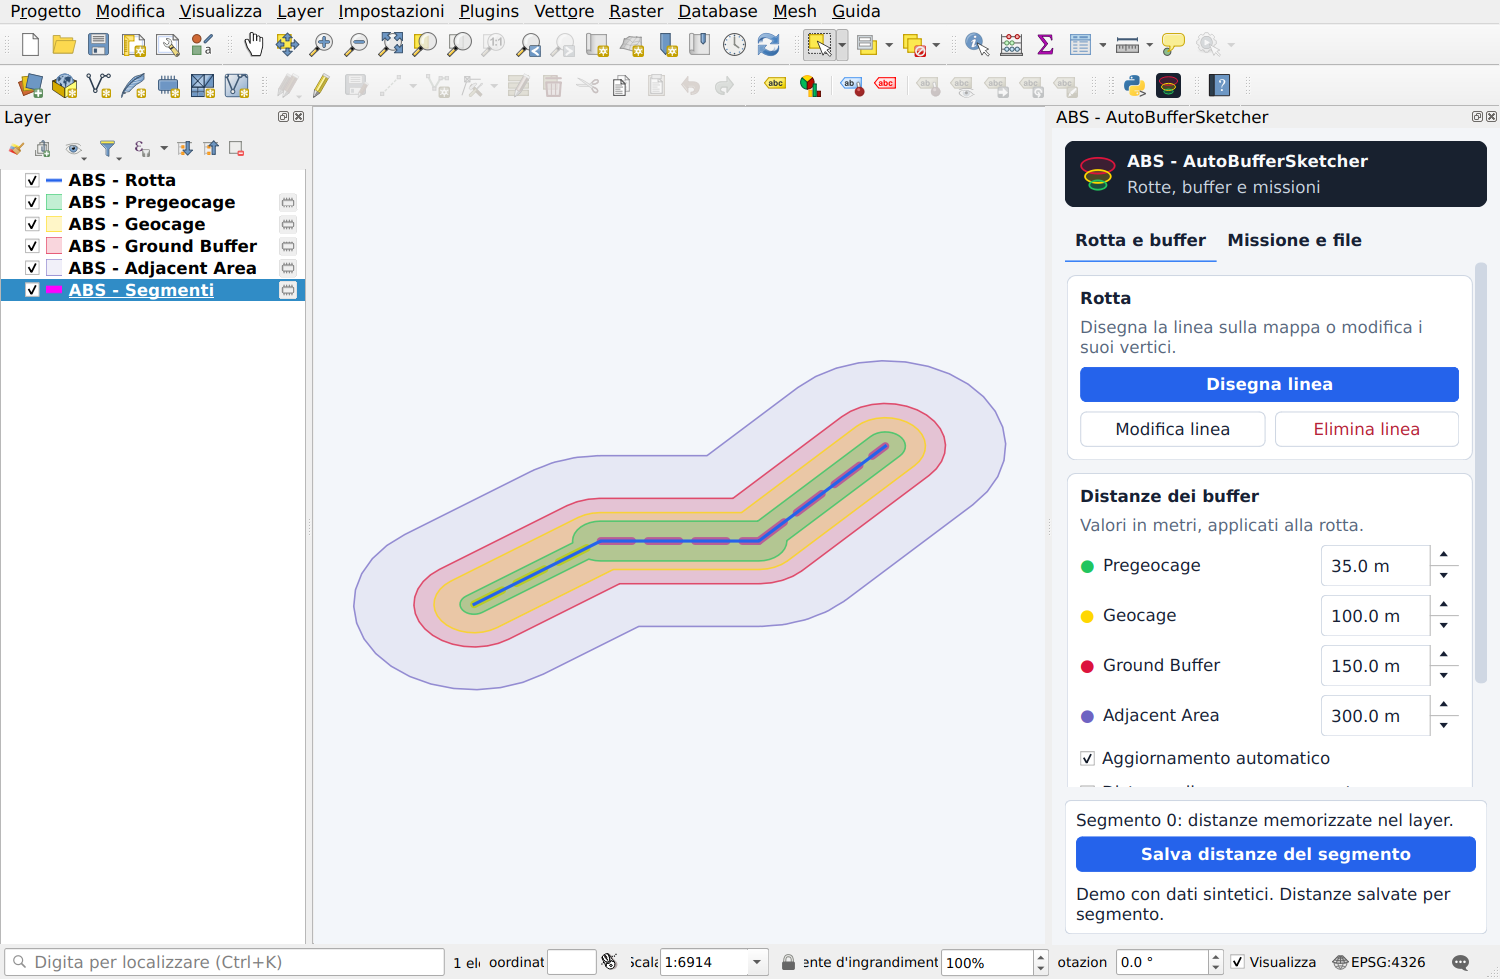
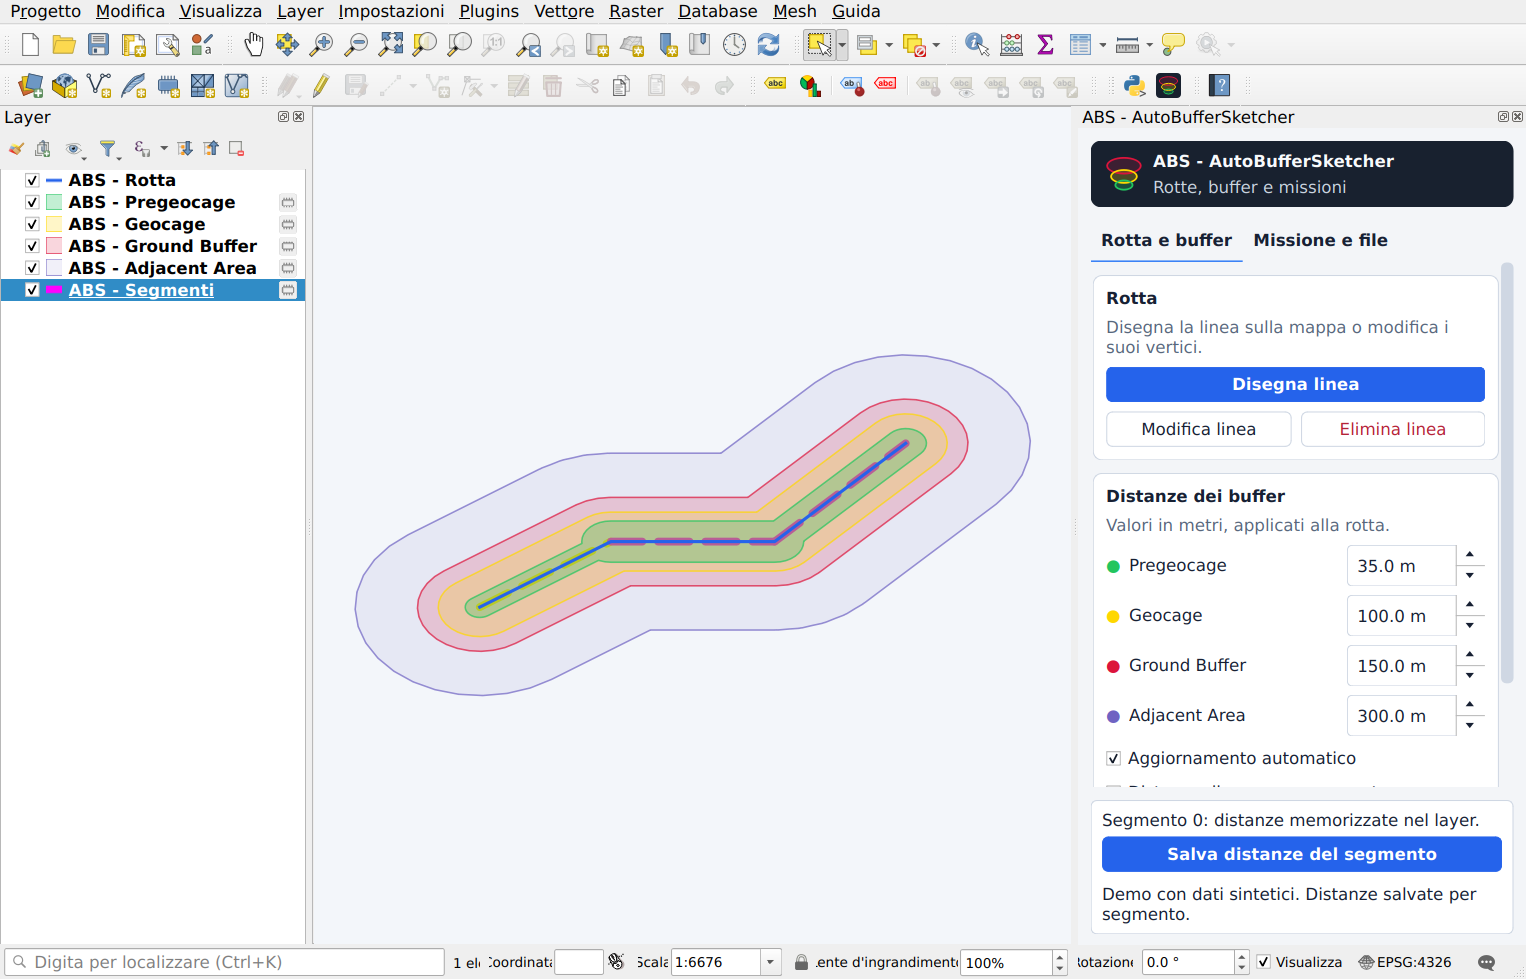
docs: present ABS in Italian and English and clarify RigiCloud export
Split the repository presentation into equivalent Italian and English sections in the author voice. Describe only confirmed personal context and actual capabilities; keep the Italian-only interface status explicit while localization is planned.

Label the existing .plan action and file dialog specifically for RigiCloud and document the distinction between that mission profile and GIS exchange formats. Do not change the exporter payload or invent a generic mission schema. Refresh synthetic QGIS screenshots.

Prepare development version 0.2.1 without altering published v0.2.0. Make the packaging path-validation fixture independent of the current version.

Validation: 37 functional regressions, seven Qt checks, six packaging tests and exporter smoke tests pass locally. Documentation links checked and screenshots regenerated in an isolated QGIS profile. UI localization and additional mission formats remain separate future work.

diff --git a/tests/test_package.py b/tests/test_package.py
@@ -50,7 +50,8 @@ class PackageTests(unittest.TestCase):
         (self.root/'auto_buffer_sketcher/resources/escape.svg').symlink_to(self.root/'LICENSE')
         with self.assertRaisesRegex(ValueError,'Symlinks'):build_plugin(self.root,Path(self.temp.name)/'out',True)
     def test_version_cannot_escape_output_path(self):
-        path=self.root/'auto_buffer_sketcher/metadata.txt';path.write_text(path.read_text().replace('version=0.2.0','version=../../escape'))
+        path=self.root/'auto_buffer_sketcher/metadata.txt'
+        path.write_text('\n'.join('version=../../escape' if line.startswith('version=') else line for line in path.read_text().splitlines())+'\n')
         with self.assertRaisesRegex(ValueError,'Version'):build_plugin(self.root,Path(self.temp.name)/'out',True)
 
 if __name__=='__main__':unittest.main(verbosity=2)

diff --git a/auto_buffer_sketcher/dock_panel.py b/auto_buffer_sketcher/dock_panel.py
@@ -178,7 +178,7 @@ class BufferDockPanel(QDockWidget):
         mission.addLayout(grid)
         exports = self._card(files, "Esporta", "Scegli il formato per il passaggio successivo.")
         for attr, text, signal, description in (
-            ("btn_export_plan", "Esporta .plan", self.export_plan_requested, "Piano per RigiCloud"),
+            ("btn_export_plan", "Esporta .plan per RigiCloud", self.export_plan_requested, "Profilo missione dedicato a RigiCloud"),
             ("btn_export_geojson", "Esporta GeoJSON", self.export_geojson_requested, "Dati geografici in formato JSON"),
             ("btn_export", "Esporta GeoPackage", self.export_requested, "Rotta e buffer in un file .gpkg"),
         ):

diff --git a/auto_buffer_sketcher/plugin.py b/auto_buffer_sketcher/plugin.py
@@ -764,9 +764,9 @@ class AutoBufferPlugin:
 
         file_path, _ = QFileDialog.getSaveFileName(
             self.dock_panel,
-            "Esporta Piano di Volo (.plan)",
+            "Esporta piano per RigiCloud (.plan)",
             os.path.expanduser("~/abs_mission.plan"),
-            "Rigicloud Plan (*.plan)",
+            "RigiCloud Plan (*.plan)",
         )
 
         if not file_path:

diff --git a/README.md b/README.md
@@ -2,80 +2,138 @@
 
 <img src="docs/assets/logo-horizontal.svg" alt="ABS - AutoBufferSketcher" width="960" height="160">
 
-**Disegna una rotta. Definisci le distanze. Aggiorna i buffer mentre lavori in QGIS.**
+[Italiano](#italiano) · [English](#english)
 
-ABS è un progetto personale di **Francesco Rosano** per disegnare e modificare rotte, generare quattro fasce di buffer e gestire distanze uniformi oppure diverse per ogni segmento.
+![ABS in QGIS: rotta e quattro buffer su dati sintetici / route and four buffers using synthetic data](docs/assets/overview.png)
 
-*QGIS plugin for interactive route sketching, four metric buffer zones, per-segment distances, GeoPackage persistence, GeoJSON and `.plan` export.*
+## Italiano
 
-**Stato:** versione di sviluppo 0.2.0, sperimentale. Il plugin non è ancora pubblicato nel catalogo ufficiale QGIS. L’interfaccia è in italiano.
+### Il progetto
 
-![Rotta e quattro buffer in QGIS, su dati sintetici](docs/assets/overview.png)
+Sto sviluppando ABS come progetto personale per disegnare e modificare rotte in QGIS e gestire quattro fasce di buffer, con distanze uniformi oppure diverse per ogni segmento. Ho portato questo progetto anche nella mia tesina di fine corso.
 
-Tutte le immagini usano la [rotta sintetica inclusa](examples/README.md), senza dati operativi o servizi cartografici esterni.
+Con ABS voglio raccogliere nello stesso pannello il lavoro sulla rotta, il calcolo dei buffer e la preparazione dei dati da esportare. Per lo scambio GIS metto a disposizione GeoPackage e GeoJSON; per il flusso missione ho un’esportazione `.plan` pensata appositamente per **RigiCloud**.
+
+**Stato:** ho pubblicato la versione sperimentale [0.2.0](https://github.com/OnlyPio59/ABS_AutoBufferSketcher/releases/tag/v0.2.0); nel ramo di sviluppo preparo la 0.2.1. Il plugin non è ancora nel catalogo ufficiale QGIS. L’interfaccia attuale è in italiano: ho pianificato la traduzione inglese e la predisposizione per altre lingue.
 
 [Guida completa](docs/USER_GUIDE.md) · [Demo riproducibile](examples/README.md) · [Changelog](CHANGELOG.md) · [Contribuire](CONTRIBUTING.md)
 
-## Cosa puoi fare
+### Cosa posso fare con ABS
 
-- Disegnare rotte sulla mappa, modificare i vertici ed eliminare le linee con conferma.
-- Generare **Pregeocage**, **Geocage**, **Ground Buffer** e **Adjacent Area**, con distanze in metri e aggiornamento automatico o manuale.
-- Salvare quattro distanze indipendenti per ciascun segmento; conservarle durante divisioni compatibili e gestire esplicitamente le fusioni con valori diversi.
-- Salvare rotta, buffer e segmenti in GeoPackage e ripristinare modalità e parametri dal progetto QGIS.
-- Esportare GeoJSON in WGS84 e piani `.plan` per il flusso RigiCloud, entro i limiti documentati.
+- Disegnare rotte sulla mappa, modificare i vertici ed eliminare linee con conferma.
+- Generare **Pregeocage**, **Geocage**, **Ground Buffer** e **Adjacent Area** in metri, con aggiornamento automatico o manuale.
+- Salvare distanze indipendenti per ciascun segmento e ritrovarle passando da un segmento all’altro.
+- Rendere persistenti i layer e conservare modalità e parametri nel progetto QGIS.
+- Esportare geometrie GIS oppure un profilo missione `.plan` dedicato a RigiCloud, entro i limiti documentati.
 
-## Installazione
+### Installazione e primo utilizzo
 
-Il plugin usa Python, Qt e PyQGIS forniti con QGIS; non richiede pacchetti Python esterni.
+Uso Python, Qt e PyQGIS già forniti con QGIS, senza pacchetti Python esterni. Dichiaro QGIS **3.34–3.99**; le verifiche disponibili riguardano **3.34.4 e 3.44.15 su Linux**. Non ho ancora convalidato Windows, macOS o QGIS 4.
 
-**Da ZIP:** quando hai un pacchetto del plugin, apri **Plugin → Gestisci e installa plugin → Installa da ZIP**, selezionalo e abilita ABS. Dopo un aggiornamento, riavvia QGIS per ricaricare il codice Python.
+1. Scarica lo ZIP dagli asset della [release](https://github.com/OnlyPio59/ABS_AutoBufferSketcher/releases/tag/v0.2.0).
+2. In QGIS apri **Plugin → Gestisci e installa plugin → Installa da ZIP**. Dopo un aggiornamento, riavvia QGIS.
+3. Apri ABS dalla toolbar. In **Rotta e buffer** imposta le distanze e premi **Disegna linea**: clic sinistro per i vertici, clic destro per completare, Backspace per rimuovere l’ultimo vertice, Esc per annullare.
+4. Usa **Modifica linea** e **Salva modifiche** per intervenire sui vertici. Puoi disattivare l’aggiornamento automatico e usare **Ricalcola buffer**.
+5. Per valori locali, attiva **Distanze diverse per segmento**, seleziona un segmento, modifica i campi e premi **Salva distanze del segmento** prima di selezionare il successivo.
 
-**Dal sorgente:** apri **Impostazioni → Profili utente → Apri cartella del profilo attivo** e copia `auto_buffer_sketcher` dentro `python/plugins`. Riavvia QGIS e abilita **ABS - AutoBufferSketcher** dal gestore plugin. Per le versioni di sviluppo usa un profilo separato.
+Per lavorare dal sorgente, copia `auto_buffer_sketcher` in `python/plugins` del profilo QGIS e riavvia l’applicazione. Per lo sviluppo consiglio un profilo separato.
 
-Il minimo dichiarato è QGIS 3.34; le verifiche disponibili riguardano **QGIS 3.34.4 e 3.44.15 su Linux**. La versione è destinata a QGIS 3.x; QGIS 4, Windows e macOS non sono ancora convalidati.
+### Salvare ed esportare
 
-## Primo utilizzo
-
-1. Apri ABS dalla toolbar. Nella scheda **Rotta e buffer**, imposta le quattro distanze.
-2. Premi **Disegna linea**: clic sinistro per aggiungere vertici, clic destro per completare, Backspace per rimuovere l’ultimo vertice, Esc per annullare.
-3. Usa **Modifica linea** e poi **Salva modifiche** per intervenire sui vertici. L’aggiornamento automatico è inizialmente attivo; puoi usare anche **Ricalcola buffer**.
-4. Per distanze locali, attiva **Distanze diverse per segmento**, seleziona un segmento sulla mappa, imposta i valori e premi **Salva distanze del segmento**. Poi passa al successivo.
-5. Nella scheda **Missione e file**, scegli il formato di esportazione o rendi persistenti i layer. Salva anche il progetto QGIS per conservarne impostazioni e riferimenti.
-
-![Distanze indipendenti e salvataggio del segmento selezionato](docs/assets/segments.png)
-
-## Salvataggi ed esportazioni
-
-| Azione | Risultato |
+| Azione | Cosa ottengo |
 | --- | --- |
-| Salva distanze del segmento | Memorizza i quattro valori soltanto nel segmento selezionato del layer corrente. |
-| Applica a tutti i segmenti | Sostituisce le distanze di tutti i segmenti con i valori correnti. |
-| Esporta GeoPackage | Esporta rotta e quattro buffer. Non include il layer dei segmenti. |
-| Rendi layer persistenti | Salva anche i segmenti e sostituisce nel progetto i layer temporanei con quelli su disco. |
-| Esporta GeoJSON | Esporta rotte, waypoint e buffer in WGS84, comprese geometrie multipart e anelli interni. |
-| Esporta .plan | Esporta una rotta rappresentabile con i suoi buffer e i parametri di missione. |
+| Salva distanze del segmento | I quattro valori memorizzati soltanto nel segmento selezionato del layer corrente. |
+| Applica a tutti i segmenti | Gli stessi valori correnti su tutti i segmenti. |
+| Esporta GeoPackage | Una copia di rotta e quattro buffer, senza il layer segmenti. |
+| Rendi layer persistenti | Rotta, buffer e segmenti su disco; salvo poi anche il progetto QGIS. |
+| Esporta GeoJSON | Rotte, waypoint e buffer in WGS84, comprese parti separate e anelli interni. |
+| Esporta .plan per RigiCloud | Una rotta e i buffer associati nel profilo missione dedicato implementato da ABS. |
 
-La [guida d’uso](docs/USER_GUIDE.md) spiega la differenza fra salvare valori, salvare layer e salvare il progetto.
+Il pulsante del segmento salva nel layer corrente: per conservare layer temporanei dopo la chiusura uso **Rendi layer persistenti** e salvo il progetto QGIS.
 
-## Limiti e compatibilità
+### Perché specifico RigiCloud
 
-- Calcolo metrico regionale in un CRS UTM locale: estensioni oltre 6° in longitudine o latitudine, attraversamenti dell’antimeridiano e latitudini fuori da 80° S–84° N sono segnalati come non supportati.
-- `.plan` richiede una rotta continua con almeno tre vertici. Parti separate, buchi e buffer non rappresentabili vengono segnalati; GeoJSON conserva invece le geometrie complete.
-- **La compatibilità completa con RigiCloud 1.19.9 resta in validazione**, comprese quote, profilo e parametri. Un file JSON leggibile non dimostra l’accettazione della missione nel sistema target.
-- I valori iniziali sono parametri del software, non una verifica dell’adeguatezza di una missione.
+Il `.plan` che esporto contiene una missione VTOL, un profilo e parametri di sicurezza e i geofence. Lo considero un’esportazione dedicata al flusso **RigiCloud**, non un piano universale compatibile con qualunque applicazione. La compatibilità completa con **RigiCloud 1.19.9**, incluse quote, profilo e parametri, è ancora in validazione.
 
-## Qualità e sviluppo
+Non ho ancora implementato un secondo esportatore missione generico. Per aggiungerlo dovrò prima scegliere l’applicazione destinataria e il suo schema: la stessa estensione `.plan` è usata anche da formati differenti. GeoJSON e GeoPackage rimangono le mie opzioni di scambio delle geometrie GIS.
 
-La suite contiene **37 regressioni del plugin e 7 prove dell’interfaccia**, oltre allo smoke test degli esportatori. GitHub Actions le esegue con il Python di sistema e Qt offscreen. Le verifiche offscreen non coprono ogni interazione desktop o piattaforma.
+### Limiti e verifiche
 
-Il codice è in `auto_buffer_sketcher/`; i test sintetici sono in `tests/`. Per riprodurli o proporre una modifica, vedi [CONTRIBUTING.md](CONTRIBUTING.md). Per un problema, apri una segnalazione con il modello dedicato nella sezione Issues della repository, indicando versioni, CRS e passaggi riproducibili.
+Calcolo i buffer in un CRS UTM locale: estensioni oltre 6° in longitudine o latitudine, attraversamenti dell’antimeridiano e latitudini fuori da 80° S–84° N sono segnalati come non supportati. Il profilo `.plan` attuale richiede una rotta continua con almeno tre vertici e rifiuta geometrie non rappresentabili, come parti separate o buchi. I valori iniziali sono parametri del software, non una validazione di una missione.
 
-## Autore e licenza
+Mantengo **37 regressioni funzionali, 7 prove dell’interfaccia e 6 prove di confezionamento**, oltre allo smoke test degli esportatori. Le eseguo anche su GitHub Actions. Ho verificato l’installazione ZIP in un profilo QGIS isolato; le prove offscreen non coprono ogni interazione desktop o piattaforma.
 
-**Francesco Rosano** — progetto personale. Contatto tramite le Issues della repository.
+Per le immagini e la [demo](examples/README.md) uso soltanto dati sintetici. La guida dettagliata è attualmente in italiano. Per una segnalazione o una proposta, usa i modelli nella sezione Issues.
 
-Distribuito con licenza **GNU GPL versione 3 (GPL-3.0-only)**. Sono consentiti anche uso e distribuzione commerciali, nel rispetto della licenza. Vedi [LICENSE](LICENSE) e [NOTICE](NOTICE). La pubblicazione nel catalogo resta in preparazione; il contatto autore nei metadati è rosano_francesco@hotmail.it.
+### Licenza
 
-## Progetti precedenti
+Distribuisco ABS con **GPL-3.0-only**, che consente anche uso commerciale nel rispetto delle sue condizioni. Il mio contatto è **rosano_francesco@hotmail.it**. Attribuzione e testo completo sono in [NOTICE](NOTICE) e [LICENSE](LICENSE).
 
-I layer standard con nomi `ABC` continuano a essere riconosciuti. I nomi predefiniti passano al prefisso **ABS**, conservando file sorgente e nomi personalizzati. Il pacchetto Python mantiene l’identificatore `auto_buffer_sketcher`.
+Mantengo la compatibilità con i layer storici `ABC` e con i nomi personalizzati; l’identificatore Python resta `auto_buffer_sketcher`.
+
+---
+
+## English
+
+### The project
+
+I am developing ABS as a personal project to draw and edit routes in QGIS and manage four buffer zones, with uniform distances or different values for each segment. I also presented this project in my end-of-course thesis.
+
+With ABS, I want to bring route editing, buffer calculation and export preparation into the same panel. I provide GeoPackage and GeoJSON for GIS data exchange, and a `.plan` mission export designed specifically for the **RigiCloud** workflow.
+
+**Status:** I have published experimental version [0.2.0](https://github.com/OnlyPio59/ABS_AutoBufferSketcher/releases/tag/v0.2.0); the development branch is preparing 0.2.1. The plugin is not yet in the official QGIS plugin catalog. Its current interface is Italian: I have planned an English translation and support for further languages.
+
+[Detailed guide — Italian](docs/USER_GUIDE.md) · [Reproducible demo — Italian](examples/README.md) · [Changelog](CHANGELOG.md) · [Contributing](CONTRIBUTING.md)
+
+### What I can do with ABS
+
+- Draw routes on the map, edit vertices and delete lines with confirmation.
+- Generate **Pregeocage**, **Geocage**, **Ground Buffer** and **Adjacent Area** in metres, with automatic or manual updates.
+- Save independent distances for each segment and retrieve them when switching between segments.
+- Save temporary layers to disk and preserve modes and parameters in the QGIS project.
+- Export GIS geometries or a dedicated RigiCloud `.plan` mission profile, within the documented limits.
+
+### Installation and first use
+
+I use the Python, Qt and PyQGIS components shipped with QGIS, without additional Python packages. I declare support for QGIS **3.34–3.99**; the available checks cover **3.34.4 and 3.44.15 on Linux**. I have not yet validated Windows, macOS or QGIS 4.
+
+1. Download the ZIP asset from the [release](https://github.com/OnlyPio59/ABS_AutoBufferSketcher/releases/tag/v0.2.0).
+2. In QGIS, open **Plugins → Manage and Install Plugins → Install from ZIP**. Restart QGIS after an update.
+3. Open ABS from its toolbar button. In **Rotta e buffer** (Route and buffers), set the distances and click **Disegna linea** (Draw line): left-click to add vertices, right-click to finish, Backspace to remove the last vertex and Esc to cancel.
+4. Use **Modifica linea** (Edit line) and **Salva modifiche** (Save changes) to edit vertices. You can disable automatic updates and use **Ricalcola buffer** (Recalculate buffers).
+5. For local values, enable **Distanze diverse per segmento** (Different distances per segment), select a segment, change the values and click **Salva distanze del segmento** (Save segment distances) before selecting the next segment.
+
+To work from source, copy `auto_buffer_sketcher` into the QGIS profile’s `python/plugins` directory and restart the application. I recommend a separate profile for development.
+
+### Saving and exporting
+
+| Action | What I get |
+| --- | --- |
+| Save segment distances | The four values stored only on the selected segment in the current layer. |
+| Apply to all segments | The current values applied to every segment. |
+| Export GeoPackage | A copy of the route and four buffers, without the segments layer. |
+| Make layers persistent | Route, buffers and segments saved to disk; I also save the QGIS project afterwards. |
+| Export GeoJSON | Routes, waypoints and buffers in WGS84, including multipart geometries and inner rings. |
+| Export .plan for RigiCloud | One route and its associated buffers in the dedicated mission profile implemented by ABS. |
+
+The segment button saves values in the current layer. To retain temporary layers after closing QGIS, I use **Rendi layer persistenti** (Make layers persistent) and save the QGIS project.
+
+### Why I specify RigiCloud
+
+The `.plan` I export contains a VTOL mission, a safety profile and settings, and geofences. I treat it as a dedicated export for the **RigiCloud** workflow, not a universal mission plan compatible with every application. Full compatibility with **RigiCloud 1.19.9**, including altitudes, profile and parameters, is still under validation.
+
+I have not yet implemented a second generic mission exporter. Before adding one, I will need to choose its destination application and schema: the `.plan` extension is also used by different formats. GeoJSON and GeoPackage remain my options for exchanging GIS geometries.
+
+### Limits and checks
+
+I calculate buffers in a local UTM CRS. Extents greater than 6° in longitude or latitude, antimeridian crossings and latitudes outside 80° S–84° N are reported as unsupported. The current `.plan` profile requires a single continuous route with at least three vertices and rejects unrepresentable geometries such as separate parts or holes. Initial values are software parameters, not mission validation.
+
+I maintain **37 functional regressions, 7 interface checks and 6 packaging checks**, plus the exporter smoke tests, and run them through GitHub Actions. I have checked ZIP installation in an isolated QGIS profile; offscreen checks do not cover every desktop interaction or platform.
+
+I use only synthetic data for the screenshots and [demo](examples/README.md). The detailed guide is currently in Italian. For a bug report or proposal, use the repository’s issue templates.
+
+### License
+
+I distribute ABS under **GPL-3.0-only**, which also permits commercial use under its terms. My contact address is **rosano_francesco@hotmail.it**. See [NOTICE](NOTICE) for attribution and [LICENSE](LICENSE) for the full terms.
+
+I preserve compatibility with historical `ABC` layer names and custom titles; the Python package identifier remains `auto_buffer_sketcher`.

diff --git a/docs/USER_GUIDE.md b/docs/USER_GUIDE.md
@@ -66,7 +66,7 @@ Il formato `.plan` contiene anche parametri statici ereditati dall’esportatore
 | Esporta GeoPackage | Rotta e quattro buffer | Consegnare una copia dei risultati GIS. |
 | Rendi layer persistenti | Rotta, buffer e segmenti | Continuare il lavoro conservando i parametri per segmento. |
 | GeoJSON | Rotte, waypoint e buffer in WGS84 | Scambio con altri strumenti GIS; conserva parti separate e buchi. |
-| .plan | Una rotta selezionata e i buffer associati | Prova del flusso RigiCloud, nei limiti rappresentabili. |
+| .plan per RigiCloud | Una rotta selezionata, buffer e parametri del profilo dedicato | Flusso RigiCloud, nei limiti rappresentabili e con compatibilità ancora da verificare. |
 
 Se ci sono più rotte, l’esportazione `.plan` richiede la selezione esplicita di una sola rotta. Il profilo attuale richiede almeno tre vertici e rifiuta parti separate, anelli interni o altre geometrie non rappresentabili. Non tutti i file con estensione `.plan` usano lo stesso schema.
 
@@ -82,3 +82,11 @@ Se ci sono più rotte, l’esportazione `.plan` richiede la selezione esplicita 
 | L’export .plan viene rifiutato | Controlla rotta selezionata, numero di vertici e messaggio sulle geometrie non rappresentabili. |
 
 Per una segnalazione riproducibile usa il modello Issues e un esempio sintetico. Indica versione QGIS/plugin, sistema, CRS, modalità dei buffer e passaggi eseguiti.
+
+## A quale applicazione è destinato il .plan?
+
+Il comando **Esporta .plan per RigiCloud** produce il profilo specifico attualmente implementato per quel flusso, con missione VTOL, parametri di sicurezza e geofence. La compatibilità completa con RigiCloud 1.19.9 rimane da validare. Non è una dichiarazione di conformità a un formato universale.
+
+L’estensione `.plan` non identifica da sola uno schema comune a tutte le applicazioni. Per esempio, [QGroundControl documenta un proprio formato](https://docs.qgroundcontrol.com/master/en/qgc-dev-guide/file_formats/plan.html), diverso da quello attuale di ABS. Un eventuale esportatore aggiuntivo dovrà essere identificato con il nome del destinatario, avere una specifica/versione e prove di importazione dedicate. Non è presente un secondo esportatore missione generico.
+
+Per scambiare le geometrie senza vincolarsi al profilo missione RigiCloud, sono disponibili GeoJSON e GeoPackage; questi non equivalgono a un piano di volo eseguibile in qualsiasi software.

diff --git a/CHANGELOG.md b/CHANGELOG.md
@@ -1,6 +1,12 @@
 # Changelog
 
-## 0.2.0 — In sviluppo
+## 0.2.1 — In sviluppo
+
+- Presentazione divisa in italiano e inglese, con voce dell’autore in prima persona.
+- Destinazione RigiCloud esplicita nel comando e nel dialogo di esportazione .plan, senza modificare lo schema o i parametri esportati.
+- Documentata la distinzione fra .plan dedicato, formati GIS di scambio e possibili esportatori futuri.
+
+## 0.2.0 — Sperimentale
 
 - Licenza GPL-3.0-only, attribuzione a Francesco Rosano e documentazione inclusa nel pacchetto installabile.
 - Minimo QGIS dichiarato allineato alla versione 3.34 verificata; QGIS 4 escluso dalla dichiarazione di compatibilità.

diff --git a/auto_buffer_sketcher/README.md b/auto_buffer_sketcher/README.md
@@ -19,7 +19,8 @@ Missione e file contiene quote AMSL, export e salvataggio. Salva distanze
 memorizza i valori nel layer corrente. Rendi layer persistenti conserva
 anche i segmenti su GeoPackage; salva poi il progetto QGIS. Esporta
 GeoPackage salva una copia della rotta e dei buffer senza i segmenti.
-GeoJSON esporta le geometrie in WGS84. Il formato .plan richiede una
+GeoJSON esporta le geometrie in WGS84. L’esportazione .plan è pensata
+appositamente per RigiCloud, non come formato missione universale. Richiede una
 rotta continua con almeno tre vertici; la compatibilità completa con
 RigiCloud 1.19.9 è ancora in validazione.
 
